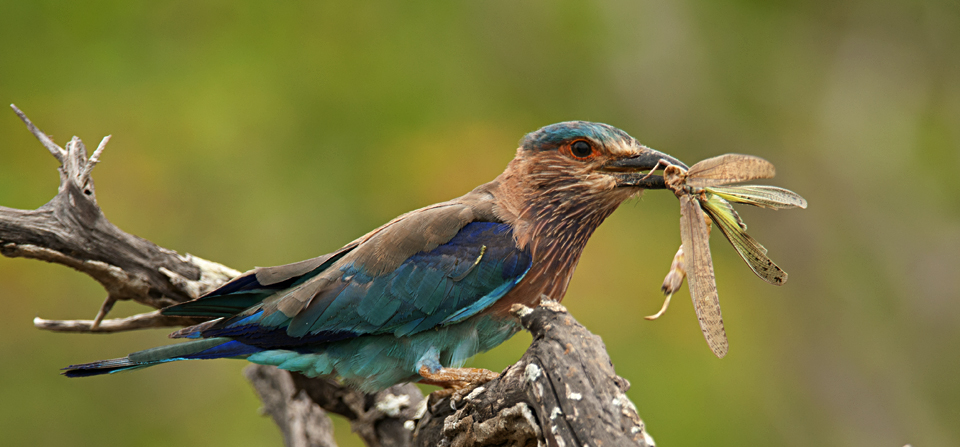
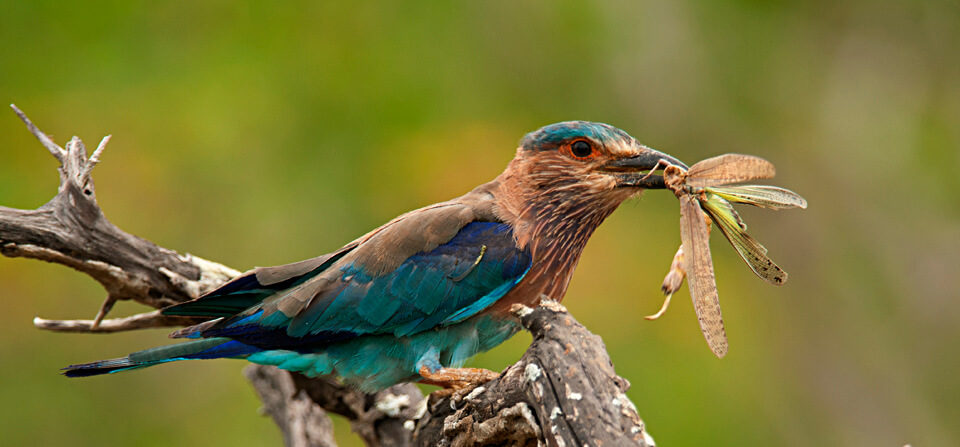
Compress images for performance optimization

diff --git a/styles.css b/styles.css
@@ -181,7 +181,7 @@ body {
 }
 .hero-section {
   position: relative;
-  background-image: url("images/banner-1.jpg");
+  background-image: url("images/banner-1.webp");
   background-size: cover;
   height: 600px;
   display: flex;
@@ -221,7 +221,7 @@ body {
     -webkit-text-stroke: 0.8px #2f4f4f;
   }
   .hero-section {
-    background-image: url("images/banner-mobile.jpg");
+    background-image: url("images/banner-mobile.webp");
     height: 500px;
     background-size: cover;
   }
@@ -485,13 +485,13 @@ body {
   margin-bottom: 60px;
   width: 100%;
   height: 400px;
-  background-image: url(images/wildlife-main.jpg);
+  background-image: url(images/wildlife-main.webp);
   object-fit: cover;
   background-repeat: no-repeat;
   background-size: cover;
 }
 .department {
-  background-image: url(images/department.jpg);
+  background-image: url(images/department.webp);
 }
 .about-text {
   margin: 20px;
@@ -683,7 +683,7 @@ td img {
   max-height: 300px;
 }
 .leopard-hero {
-  background-image: url(images/srilankan-leopard.jpg);
+  background-image: url(images/banner-1.webp);
 }
 .leopard-habitat {
   display: flex;
@@ -761,7 +761,7 @@ td img {
   }
 }
 .animals-hero {
-  background-image: url(images/wildlife-tours.jpg);
+  background-image: url(images/wildlife-tours.webp);
 }
 .explore-parks {
   display: flex;

diff --git a/index.html b/index.html
@@ -110,16 +110,20 @@
           <div class="gallery-grid">
             <img
               class="gallery-item item-1"
-              src="images/minneriya.jpg"
+              src="images/minneriya.webp"
               alt=""
             />
             <img
               class="gallery-item item-2"
-              src="images/wasgamuwa01.jpg"
+              src="images/wasgamuwa01.webp"
               alt=""
             />
-            <img class="gallery-item item-3" src="images/knukles.jpg" alt="" />
-            <img class="gallery-item item-4" src="images/wilpattu.jpg" alt="" />
+            <img class="gallery-item item-3" src="images/knukles.webp" alt="" />
+            <img
+              class="gallery-item item-4"
+              src="images/wilpattu.webp"
+              alt=""
+            />
           </div>
         </div>
         <div class="explore">
@@ -176,7 +180,7 @@
             </div>
           </div>
         </div>
-        <img class="kotiya" src="images/kotiya.png" alt="" />
+        <img class="kotiya" src="images/kotiya.webp" alt="" />
         <img class="kotiya-mobile" src="images/hidden-leopard.png" alt="" />
       </section>
       <section class="wildlife-section">

diff --git a/leopard.html b/leopard.html
@@ -70,13 +70,13 @@
             </p>
           </div>
           <div class="habitat-img">
-            <img src="images/gal-oya-leopard.jpg" alt="" />
+            <img src="images/gal-oya-leopard.webp" alt="" />
           </div>
         </div>
 
         <div class="leopard-habitat second-item">
           <div class="habitat-img">
-            <img src="images/kumana-leopard.jpg" alt="" />
+            <img src="images/kumana-leopard.webp" alt="" />
           </div>
           <div class="habitat-desc">
             <h3 class="heading-main">Kumana National Park</h3>
@@ -149,7 +149,7 @@
             >
           </div>
           <div class="habitat-img">
-            <img src="images/Deforestation.jpg" alt="" />
+            <img src="images/Deforestation.webp" alt="" />
           </div>
         </div>
         <div class="leopard-habitat second-item">

diff --git a/srilankan-wildlife.html b/srilankan-wildlife.html
@@ -64,7 +64,7 @@
           referrerpolicy="no-referrer-when-downgrade"
         ></iframe>
         <div class="location-images">
-          <img src="images/horton1.jpg" alt="" />
+          <img src="images/horton1.webp" alt="" />
           <img src="images/horton2.webp" alt="" />
         </div>
         <p>
@@ -98,8 +98,8 @@
           referrerpolicy="no-referrer-when-downgrade"
         ></iframe>
         <div class="location-images">
-          <img src="images/sinharaja1.jpg" alt="" />
-          <img src="images/sinharaja2.jpg" alt="" />
+          <img src="images/sinharaja1.webp" alt="" />
+          <img src="images/sinharaja2.webp" alt="" />
         </div>
         <p>
           Sinharaja Forest Reserve, Randil, is a UNESCO World Heritage Site

diff --git a/department-of-wildlife-conservation.html b/department-of-wildlife-conservation.html
@@ -136,9 +136,9 @@
           <img src="images/kanneliya.jpg" alt="" />
         </div>
         <div class="gallery-row">
-          <img src="images/hakgala.jpg" alt="" />
-          <img src="images/yala.jpg" alt="" />
-          <img src="images/galoya.jpg" alt="" />
+          <img src="images/hakgala.webp" alt="" />
+          <img src="images/yala.webp" alt="" />
+          <img src="images/sinharaja1.webp" alt="" />
         </div>
       </section>
     </main>
